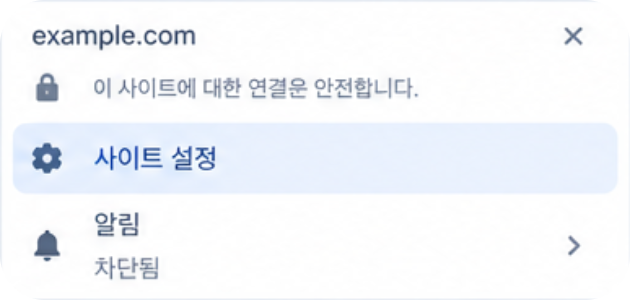
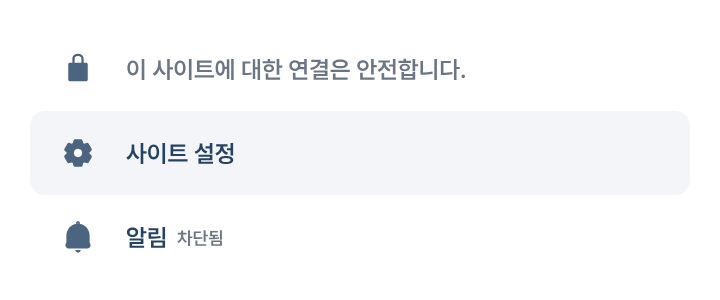
Standalone: new guide accordion design, same issue number across versions, specific reasons, hint wording

diff --git a/src/cliData.ts b/src/cliData.ts
@@ -172,6 +172,8 @@ interface ReviseSpec {
   taskNo: string;
   taskTitle: string;
   taskAction: string;
+  /** 바뀐 이유: 왜 이렇게 정했는지 구체적으로 */
+  reason: string;
 }
 
 /** 필요한 값만 넣으면 한 건을 만들어요 (백엔드 담당자 시점) */
@@ -195,7 +197,7 @@ function revise(sp: ReviseSpec, patch: Partial<DecisionChange> = {}, taskState: 
     summary: '결정이 바뀌어서 다시 알려요.',
     before: sp.before,
     after: sp.after,
-    reason: '같은 결정이 다시 바뀌었어요. 달라진 값을 확인하고 내 작업에 영향이 있는지 답해주세요.',
+    reason: sp.reason,
     importance: 'MEDIUM',
     decisionState: '확정',
     affectsMe: true,
@@ -232,17 +234,19 @@ function reviseScenarios(): DecisionChange[] {
     taskNo: 'T-33',
     taskTitle: '환불 API',
     taskAction: '환불 가능 기간 검증을 수정해야 해요',
+    reason: '환불 기간이 14일이면 구매 직후에 쓰고 되돌리는 사례가 많아서, 민호가 CLI 대화에서 7일로 줄이기로 하고 결정(v2)으로 저장했어요.',
   };
   const refundNew: ReviseSpec = {
     ...refundOld,
     id: 'CLI-SPEC-REFUND-WINDOW-V3',
-    no: 8,
+    no: 3,
     iso: '2026-10-11T15:10:00',
     title: '환불 가능 기간은 3일로 한다',
     from: 2,
     to: 3,
     before: '환불 가능 기간 7일 (v2)',
     after: '환불 가능 기간 3일 (v3)',
+    reason: '7일로 줄인 뒤에도 구매 6일째에 몰려드는 대량 환불이 확인돼서, 환불 가능 기간을 3일로 더 줄이기로 했어요. 환불 API의 기간 검증을 3일 기준으로 바꿔야 해요.',
   };
 
   // 확정안 3: 이미 답함 + 값이 다르게 바뀜 → 새로 알려요. (이전에 "관계있다"로 답했으면 안내를 붙여요)
@@ -261,17 +265,19 @@ function reviseScenarios(): DecisionChange[] {
     taskNo: 'T-35',
     taskTitle: '주문 금액 계산 API',
     taskAction: '배송비 계산 값을 수정해야 해요',
+    reason: '택배사 단가가 올라서 기본 배송비를 2,500원에서 3,000원으로 올리기로 하고 결정(v2)으로 저장했어요.',
   };
   const shipNew: ReviseSpec = {
     ...shipOld,
     id: 'CLI-SPEC-SHIPPING-FEE-V3',
-    no: 9,
+    no: 4,
     iso: '2026-10-11T16:02:00',
     title: '배송비는 3,500원으로 한다',
     from: 2,
     to: 3,
     before: '배송비 3,000원 (v2)',
     after: '배송비 3,500원 (v3)',
+    reason: '도서산간 지역의 추가 운임까지 반영하려고 기본 배송비를 3,500원으로 한 번 더 올렸어요. 주문 금액 계산 API가 쓰는 배송비 값을 3,500원으로 바꿔야 해요.',
   };
 
   // 확정안 4: 이미 답함 + 원래 값으로 되돌림 → 새로 알리고 "되돌림" 표시
@@ -290,21 +296,23 @@ function reviseScenarios(): DecisionChange[] {
     taskNo: 'T-37',
     taskTitle: '쿠폰 적용 API',
     taskAction: '중복 쿠폰 적용 로직을 수정해야 해요',
+    reason: '고객 문의가 많아서 쿠폰을 여러 장 함께 쓸 수 있게 하기로 하고 결정(v2)으로 저장했어요.',
   };
   const couponNew: ReviseSpec = {
     ...couponOld,
     id: 'CLI-RULE-COUPON-STACK-V3',
-    no: 10,
+    no: 5,
     iso: '2026-10-11T16:30:00',
     title: '쿠폰은 중복 사용을 허용하지 않는다',
     from: 2,
     to: 3,
     before: '쿠폰 중복 사용 허용 (v2)',
     after: '쿠폰 중복 사용 불가 (v1)',
+    reason: '쿠폰을 겹쳐 쓰면 할인 금액이 결제 금액보다 커지는 주문이 생겨서, 중복 사용 불가(v1) 기준으로 되돌렸어요. 쿠폰 적용 API에서 중복 쿠폰을 허용하던 로직을 걷어내야 해요.',
   };
 
   return [
-    revise(refundOld, { supersededBy: { issueNo: 8, version: 3 } }),
+    revise(refundOld, { supersededBy: { issueNo: 3, version: 3 } }),
     revise(refundNew, { isNewVersion: true }),
     reviseAnswered(shipOld, shipOldAnswer),
     revise(shipNew, { isNewVersion: true, previousAnswer: shipOldAnswer }),

diff --git a/src/Detail.tsx b/src/Detail.tsx
@@ -400,13 +400,16 @@ function PeerBar({
       >
         {peers.map((p) => {
           const selected = p.id === currentId;
+          // 같은 이슈 번호가 여러 버전이면 "이슈 #4 · v3"처럼 버전을 붙여서 구분해요.
+          const multi = peers.filter((x) => x.issueNo === p.issueNo).length > 1 && !!p.version;
+          const chipLabel = `이슈 #${p.issueNo}${multi ? ` · v${p.version!.to}` : ''}`;
           return (
             <Tooltip key={p.id} size="small" placement="bottom" openOnHover message={`${p.title} · ${reviewStatus(p)}`}>
               <button
                 type="button"
                 role="tab"
                 aria-selected={selected}
-                aria-label={`이슈 #${p.issueNo} ${p.title} (${reviewStatus(p)})`}
+                aria-label={`${chipLabel} ${p.title} (${reviewStatus(p)})`}
                 onClick={() => !selected && onSelect(p.id)}
                 style={{
                   position: 'relative',
@@ -419,7 +422,7 @@ function PeerBar({
                   lineHeight: 0,
                 }}
               >
-                <IssueFilterChip active={selected}>{`이슈 #${p.issueNo}`}</IssueFilterChip>
+                <IssueFilterChip active={selected}>{chipLabel}</IssueFilterChip>
                 {isPending(p) && (
                   <span
                     aria-hidden
@@ -565,7 +568,7 @@ export function Detail({
   doneTasks: Set<string>;
   onRollback: () => void;
   onNext: () => void;
-  onOpenIssue: (issueNo: number) => void;
+  onOpenIssue: (issueNo: number, version?: number) => void;
   onBack: () => void;
 }) {
   const [mode, setMode] = useState<ReplyMode>('none');
@@ -709,7 +712,7 @@ export function Detail({
       {closed && (
         <div style={{ background: adaptive.grey50, borderRadius: 10, padding: '18px 20px', marginTop: 20 }}>
           <Paragraph.Text typography="t6" fontWeight="bold" color={adaptive.grey800}>
-            {change.supersededBy ? `새 버전(#${byIssueNo})으로 대체됐어요` : `새 버전(#${byIssueNo})으로 대체되어 자동으로 닫혔어요`}
+            {change.supersededBy ? (change.supersededBy.version ? `새 버전(v${change.supersededBy.version})으로 대체됐어요` : `새 버전(#${byIssueNo})으로 대체됐어요`) :`새 버전(#${byIssueNo})으로 대체되어 자동으로 닫혔어요`}
           </Paragraph.Text>
           <div style={{ marginTop: 4 }}>
             <Paragraph.Text typography="t7" color={adaptive.grey600}>
@@ -904,8 +907,8 @@ export function Detail({
 
       {showNotice ? null : closed ? (
         <div style={{ marginTop: 16 }}>
-          <Button size="large" display="block" onClick={() => onOpenIssue(byIssueNo!)}>
-            {`새 버전 #${byIssueNo} 보러 가기`}
+          <Button size="large" display="block" onClick={() => onOpenIssue(byIssueNo!, change.supersededBy?.version)}>
+            {change.supersededBy?.version ? `새 버전 v${change.supersededBy.version} 보러 가기` : `새 버전 #${byIssueNo} 보러 가기`}
           </Button>
         </div>
       ) : cli ? (

diff --git a/src/NotificationAccordion.tsx b/src/NotificationAccordion.tsx
@@ -37,17 +37,17 @@ const STEPS = [
     title: '알림 권한을 허용으로 변경하세요',
     lines: ['사이트 설정 메뉴에서', '알림 항목을 찾아 허용으로 변경합니다'],
     img: step2,
-    imgWidth: 210,
+    imgWidth: 240,
     imgTop: 0,
-    ratio: '210 / 100',
+    ratio: '240 / 100',
   },
   {
     title: '이제 알림을 받을 수 있어요',
     lines: ['설정 변경 후 이 화면으로 돌아와', '권한을 다시 확인해 주세요'],
     img: step3,
-    imgWidth: 193,
-    imgTop: 40,
-    ratio: '193 / 32',
+    imgWidth: 220,
+    imgTop: 20,
+    ratio: '220 / 60',
   },
 ];
 
@@ -167,24 +167,24 @@ export function NotificationAccordion({ onClose }: { onClose: () => void }) {
             style={{
               display: 'grid',
               gridTemplateColumns: 'repeat(auto-fit, minmax(230px, 1fr))',
-              gap: 30,
-              padding: '0 30px 36px',
+              gap: 0,
+              padding: '0 50px 0',
             }}
           >
             {STEPS.map((s) => (
               <div
                 key={s.title}
-                style={{ padding: '22px 12px', display: 'flex', flexDirection: 'column', alignItems: 'center' }}
+                style={{ padding: '22px 0 22px', display: 'flex', flexDirection: 'column', alignItems: 'center' }}
               >
                 <div style={{ width: '100%', height: 100, display: 'flex', justifyContent: 'center', alignItems: 'flex-start' }}>
                   <img
                     src={s.img}
                     alt=""
                     draggable={false}
-                    style={{ width: `min(${s.imgWidth}px, 100%)`, aspectRatio: s.ratio, display: 'block', marginTop: s.imgTop, borderRadius: s.imgTop ? 0 : 15 }}
+                    style={{ width: `min(${s.imgWidth}px, 100%)`, aspectRatio: s.ratio, display: 'block', marginTop: s.imgTop }}
                   />
                 </div>
-                <div style={{ marginTop: 34, display: 'flex', flexDirection: 'column', alignItems: 'center', textAlign: 'center', gap: 2 }}>
+                <div style={{ marginTop: 35, display: 'flex', flexDirection: 'column', alignItems: 'center', textAlign: 'center', gap: 2 }}>
                   <Paragraph.Text typography="t6" fontWeight="bold" color={adaptive.grey900} style={{ lineHeight: '24px' }}>
                     {s.title}
                   </Paragraph.Text>

diff --git a/src/copy.ts b/src/copy.ts
@@ -15,7 +15,7 @@ export const ANSWERED = STANDALONE ? '확인한 변경' : '답한 변경';
 export const AUTO_CLOSED_TITLE = STANDALONE ? '기존 자동 닫힘' : '자동으로 닫힌 변경';
 
 /** 이미 "관계있다"로 답한 뒤 새 알림이 왔을 때 붙이는 안내 */
-export const REAPPLY_HINT = '이미 반영하셨다면 원래대로 다시 고쳐야 해요';
+export const REAPPLY_HINT = '이미 반영했다면 다시 고쳐주세요';
 
 /** 상세를 보는 중에 원래 값으로 돌아와서 자동으로 닫혔을 때 띄우는 한 줄 */
 export const AUTO_CLOSED_NOTICE = '원래대로 돌아와서 답하지 않아도 돼요';

diff --git a/src/Inbox.tsx b/src/Inbox.tsx
@@ -354,7 +354,7 @@ function DoneRow({
             <ChangeLine change={change} />
             {superseded && (
               <Paragraph.Text typography="st12" color={adaptive.grey500}>
-                {`새 버전 #${change.supersededBy!.issueNo}${change.supersededBy!.version ? `(v${change.supersededBy!.version})으로` : '로'} 대체됐어요`}
+                {change.supersededBy!.version ? `새 버전 v${change.supersededBy!.version}으로 대체됐어요` : `새 버전 #${change.supersededBy!.issueNo}로 대체됐어요`}
               </Paragraph.Text>
             )}
             <Meta change={change} />

diff --git a/src/useBoard.ts b/src/useBoard.ts
@@ -41,8 +41,9 @@ export function useBoard(
     goDetail();
   };
 
-  const openIssue = (issueNo: number) => {
-    const target = changes.find((c) => c.issueNo === issueNo);
+  /** 같은 이슈의 여러 버전(#3 v2, #3 v3)은 버전 번호로 골라요 */
+  const openIssue = (issueNo: number, version?: number) => {
+    const target = changes.find((c) => c.issueNo === issueNo && (version === undefined || c.version?.to === version));
     if (target) open(target.id);
   };
 
